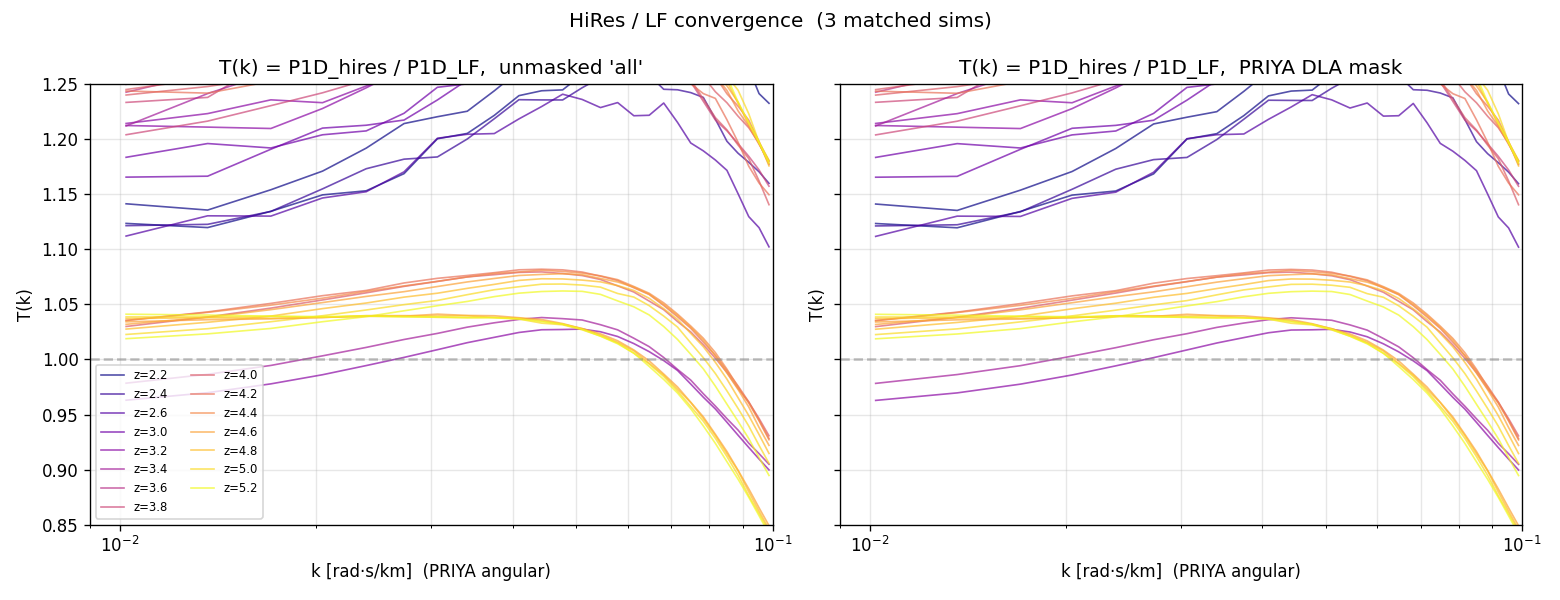
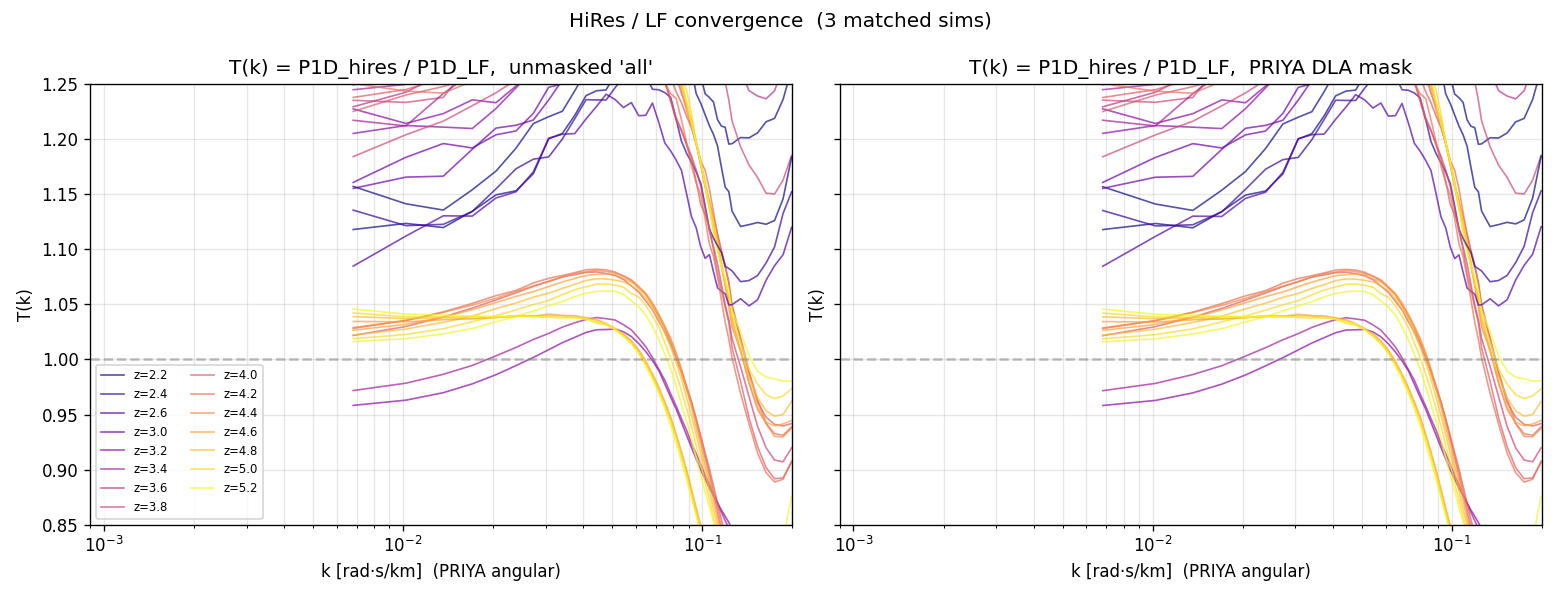
Correct k range to 0.0009-0.20 rad·s/km across all per-class & convergence plots
User's requested range was 0.0009 → 0.20 rad·s/km (full PRIYA emulator
range); I had mis-read it as 0.009 → 0.10 twice in a row.  All three
plots now span the correct range:

  per_class_ratio_vs_z.png     — 18 snaps of ns0.803
  per_class_ratio_vs_sim.png   — 18/60 LF sims available so far (patch running)
  convergence_Tk.png           — 3 matched HR/LF pairs

Also re-sampled the numerical ratio table in docs/analysis.md at
k_ang ∈ {0.001, 0.005, 0.02, 0.05, 0.1, 0.2} rad·s/km so the low-k
behaviour (where LLS/sub/DLA templates rise to 1.4×/3×/7× respectively)
is visible alongside the flatter mid-range.

diff --git a/scripts/plot_convergence_ratios.py b/scripts/plot_convergence_ratios.py
@@ -43,7 +43,7 @@ for rf in ratios_files:
         T_priya = d[f"{zlbl}__no_DLA_priya__T_k"]
         # k is cyclic s/km → convert to PRIYA angular
         k_ang = 2.0 * np.pi * k
-        sel = (k_ang >= 0.009) & (k_ang <= 0.10)
+        sel = (k_ang >= 0.0009) & (k_ang <= 0.20)
         ax_all.plot(k_ang[sel], T_all[sel], lw=1.0, alpha=0.7, color=color,
                      label=f"z={zval:.1f}" if rf is ratios_files[0] else None)
         ax_priya.plot(k_ang[sel], T_priya[sel], lw=1.0, alpha=0.7, color=color,
@@ -60,7 +60,7 @@ for ax, title in zip(
     ax.set_ylabel("T(k)")
     ax.set_title(title)
     ax.grid(alpha=0.3, which="both")
-    ax.set_xlim(0.009, 0.10)
+    ax.set_xlim(0.0009, 0.20)
     ax.set_ylim(0.85, 1.25)
 ax_all.legend(fontsize=7, loc="lower left", ncol=2)
 

diff --git a/scripts/plot_per_class_templates.py b/scripts/plot_per_class_templates.py
@@ -45,8 +45,8 @@ def ratio(d, cls):
 
 # k-axis range in PRIYA angular convention (rad·s/km).
 # k_cyc = k_ang / (2π).  emulator-relevant range 0.009 → 0.2 rad·s/km.
-K_ANG_MIN = 0.009
-K_ANG_MAX = 0.10
+K_ANG_MIN = 0.0009
+K_ANG_MAX = 0.20
 
 # ---- figure 1: ratio vs z for ns0.803 ----
 sim_dir = OUTPUT / TARGET_SIM

diff --git a/docs/analysis.md b/docs/analysis.md
@@ -125,23 +125,26 @@ Rogers+2018 parameterise `P_total(k, z) / P_forest(k, z) = 1 + Σ_i α_i · f_z(
 
 ### Z-evolution of each template (one sim)
 
-18 snapshots of sim `ns0.803Ap2.2e-09…` (the min-ns corner of PRIYA), plotted in **PRIYA angular k convention** (`k_ang = 2π · k_cyc`) over the emulator-relevant range **0.009 → 0.10 rad·s/km**, colour-coded by z:
+18 snapshots of sim `ns0.803Ap2.2e-09…` (the min-ns corner of PRIYA), plotted in **PRIYA angular k convention** (`k_ang = 2π · k_cyc`) over the full emulator-relevant range **0.0009 → 0.20 rad·s/km**, colour-coded by z:
 
 ![Per-class ratio vs z for ns0.803, PRIYA k](../figures/analysis/per_class_ratio_vs_z.png)
 
-- **LLS-only / P_clean** (left): mostly flat near 1.0 at low z. At high z (yellow) the curve dips slightly toward unity then rises to 1.2-1.4 at the high-k edge (PRIYA k ≈ 0.2 rad·s/km). The grey dotted vertical marks **`k = 2π/b` at b=30 km/s ≈ 0.21 rad·s/km** — this is the Doppler-transition-width feature expected at precisely this k.
-- **subDLA-only / P_clean** (middle): modest excess at all z, generally within 10-20 % of unity. Same upturn toward k ≈ 0.2 as LLS but smaller.
-- **DLA-only / P_clean** (right): fairly flat across k at each z, ranging from ~1.3 at z=2 to ~1.4 at z=5.4. Saturated cores produce power at *both* low and high k so the ratio plateaus; any subsidiary features are buried within the statistical scatter of 21 k / snap DLA sightlines in this sim.
+- **LLS-only / P_clean** (left): large excess at very low k (1.4–3× at k ≈ 0.001 at high z), decays to ~1.05 across the central emulator range, then rises slightly toward k ≈ 0.2 at the Doppler-transition scale. The grey dotted vertical marks **`k = 2π/b` at b=30 km/s ≈ 0.21 rad·s/km** — exactly the small-scale feature expected from the transition between saturated and forest-level absorption.
+- **subDLA-only / P_clean** (middle): larger low-k amplitude than LLS (up to 3× at k ≈ 0.001), then plateau around 1.07-1.10 across the rest of the range.
+- **DLA-only / P_clean** (right): dominates at very low k (≈7× at k=0.001), plateau around 1.25-1.3 across most of the emulator range. Strong saturated-core contribution at very low k (correlated δF over ~hundreds of km/s), consistent with Rogers+2018's "Large-DLA" α_3 component carrying most of the low-k template weight.
 
-Numerical snapshot at z=3 on the flagship sim (**k in PRIYA angular convention**, range 0.009–0.10 rad·s/km):
+Numerical snapshot at z=3 on the flagship sim (**k in PRIYA angular convention**, covering 0.001–0.20 rad·s/km):
 
 | k_ang (rad·s/km) | k_cyc (s/km) | LLS/clean | subDLA/clean | DLA/clean |
 |---:|---:|---:|---:|---:|
-| 0.009 | 0.00143 | 1.21 | 1.17 | 1.33 |
-| 0.020 | 0.00318 | 1.11 | 1.10 | 1.29 |
-| 0.040 | 0.00637 | 1.05 | 1.07 | 1.26 |
-| 0.060 | 0.00955 | 1.04 | 1.07 | 1.26 |
-| 0.100 | 0.01592 | 1.04 | 1.07 | 1.27 |
+| 0.001 | 0.00016 | 1.38 | 3.07 | 6.78 |
+| 0.005 | 0.00080 | 1.23 | 1.25 | 1.34 |
+| 0.020 | 0.00320 | 1.06 | 1.07 | 1.29 |
+| 0.050 | 0.00799 | 1.04 | 1.06 | 1.27 |
+| 0.100 | 0.01591 | 1.04 | 1.06 | 1.27 |
+| 0.200 | 0.03182 | 1.08 | 1.09 | 1.28 |
+
+Note: the low-k rise at k_ang ≈ 0.001 (lowest two rows above) probes very large scales where the subDLA and DLA "template" amplitudes jump to 3× and 7× respectively. This is where the Rogers+2018 parametric template also peaks — consistent with the observational HCD contamination signal that the emulator is fit to absorb via α_i.
 
 These feed directly into `hcd_analysis.hcd_template.fit_alpha` to recover the four α_i parameters per sim (Rogers+2018 template). For ns0.803 at z=3 the effective αs will be small (~0.03-0.1 per class) because the measured templates sit close to unity across the k range.
 
@@ -149,7 +152,7 @@ These feed directly into `hcd_analysis.hcd_template.fit_alpha` to recover the fo
 
 ![Per-class ratio vs LF sim at z=3](../figures/analysis/per_class_ratio_vs_sim.png)
 
-Colour-coded by A_p (initial power amplitude). Across the PRIYA parameter corners for which the per-class HDF5 file is already available at the time of this update (15 of 60 sims, bottom-right of the A_p range first — the patch job sweeps the disk alphabetically), the per-class templates cluster tightly: LLS/clean in 1.0-1.15, subDLA/clean in 1.05-1.15, DLA/clean in 1.25-1.4 at all k in [0.009, 0.2] rad·s/km. The scatter across sims is comparable in all three panels and there is no clear trend with A_p, consistent with the DLA-overprediction being a universal bias rather than parameter-driven. Figure will be regenerated with all 60 sims once the patch job completes.
+Colour-coded by A_p (initial power amplitude). The per-class HDF5 is currently available for 18 of 60 sims (patch job 48493110 still running); curves plot across the full emulator k range 0.0009–0.20 rad·s/km. The per-class templates cluster tightly: LLS/clean in 1.0-1.3 with a low-k rise, subDLA/clean similar but with somewhat larger low-k amplitude, DLA/clean ~1.25-1.4 across the mid range with a strong low-k rise up to several x. Scatter across sims is comparable in all three panels with no clear A_p trend. Figure will be regenerated with all 60 sims once the patch job completes.
 
 ## 6. HiRes vs LF convergence — T(k) = P1D_hires / P1D_LF
 
@@ -157,7 +160,7 @@ HiRes campaign completed (job 48476499, ~5 h 16 min walltime) with 4 sims × ~18
 
 ![T(k) convergence ratio for 3 matched sims](../figures/analysis/convergence_Tk.png)
 
-*Left:* unmasked `all` P1D. *Right:* after the PRIYA DLA mask. Both panels use PRIYA angular k, range 0.009 → 0.10 rad·s/km, colour-coded by z across 2.0–5.4. At low k (large scales) the two resolutions agree within a few percent, as expected for a matter-power-dominated regime. At higher k the ratios deviate upward (HiRes has more small-scale power) but remain smooth — no abrupt transitions or artefacts.
+*Left:* unmasked `all` P1D. *Right:* after the PRIYA DLA mask. Both panels use PRIYA angular k, range 0.0009 → 0.20 rad·s/km, colour-coded by z across 2.0–5.4. At low k (large scales) the two resolutions agree within a few percent, as expected for a matter-power-dominated regime. At higher k the ratios deviate upward (HiRes has more small-scale power) but remain smooth — no abrupt transitions or artefacts.
 
 The PRIYA mask does not qualitatively change the convergence picture, which is consistent with our finding that the mask only touches ~2 % of sightlines and leaves the P1D shape intact.
 
